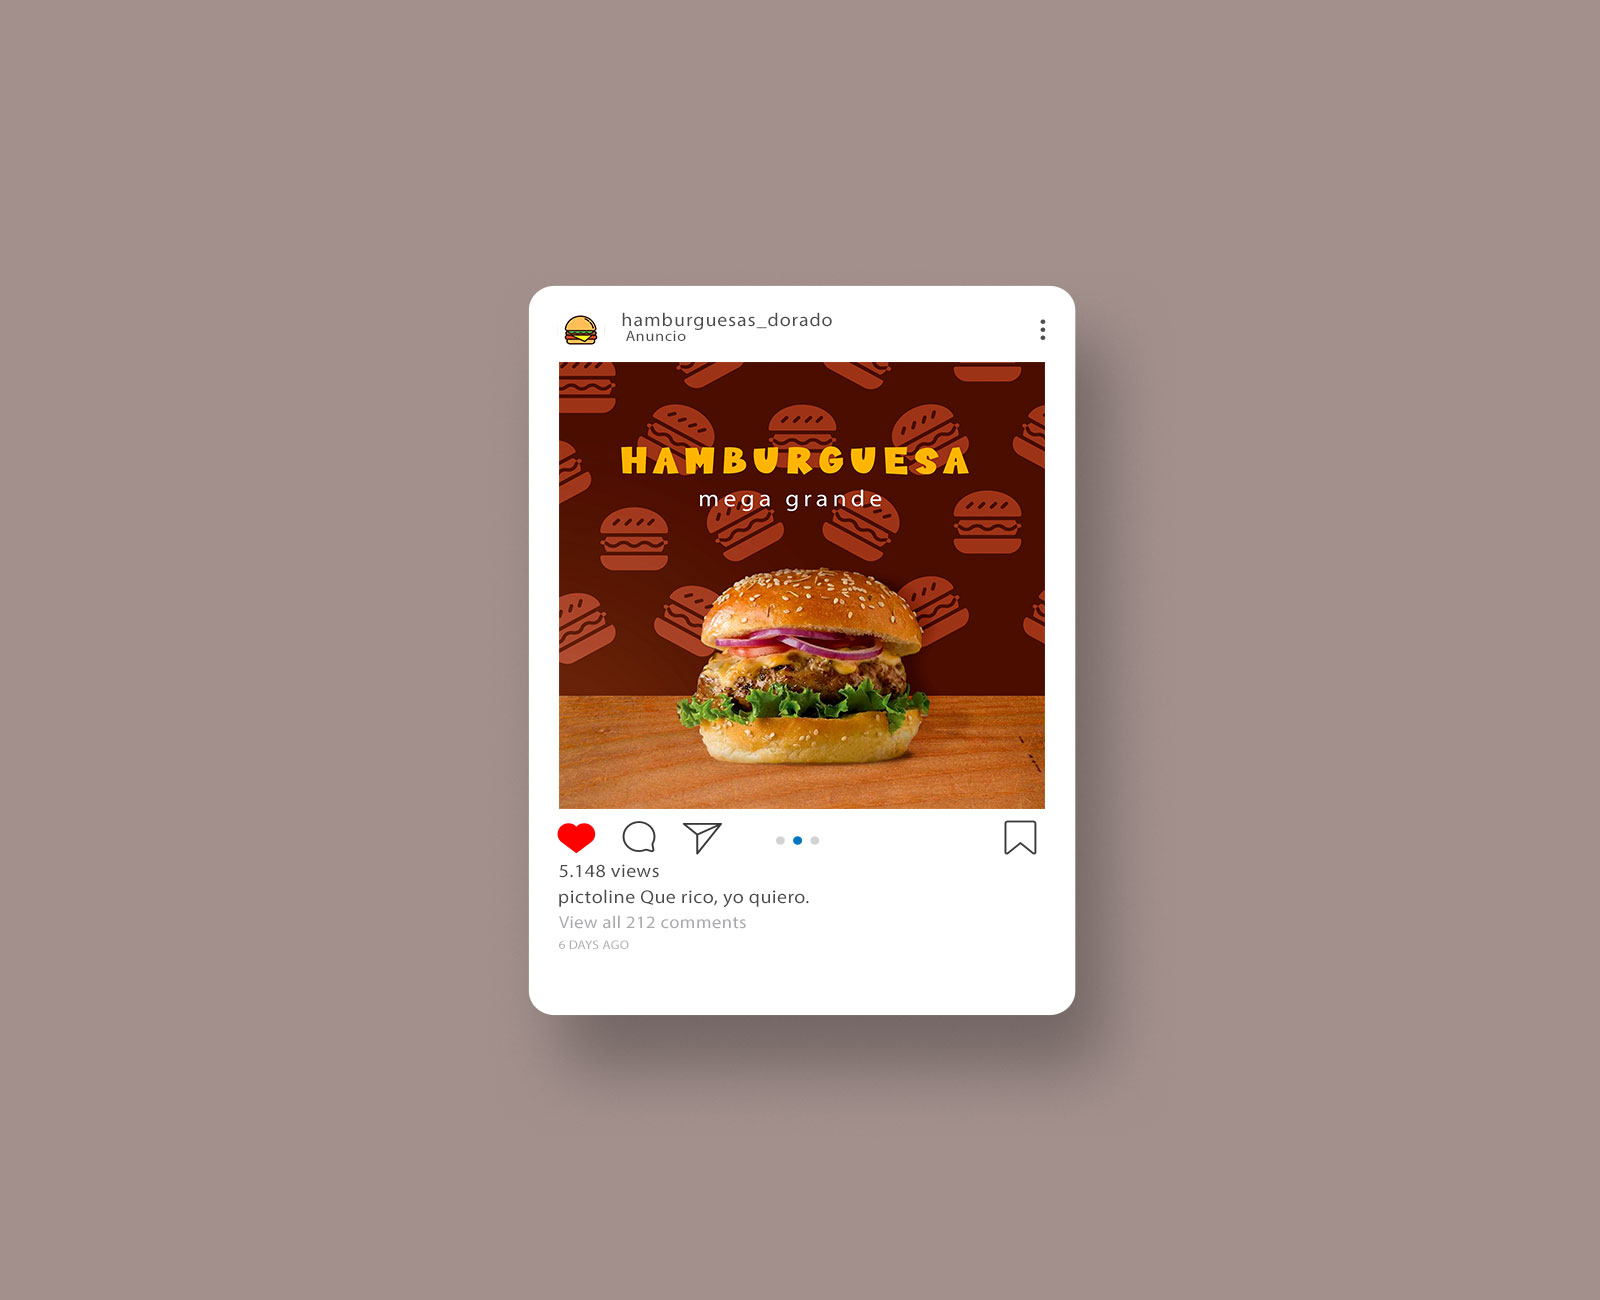
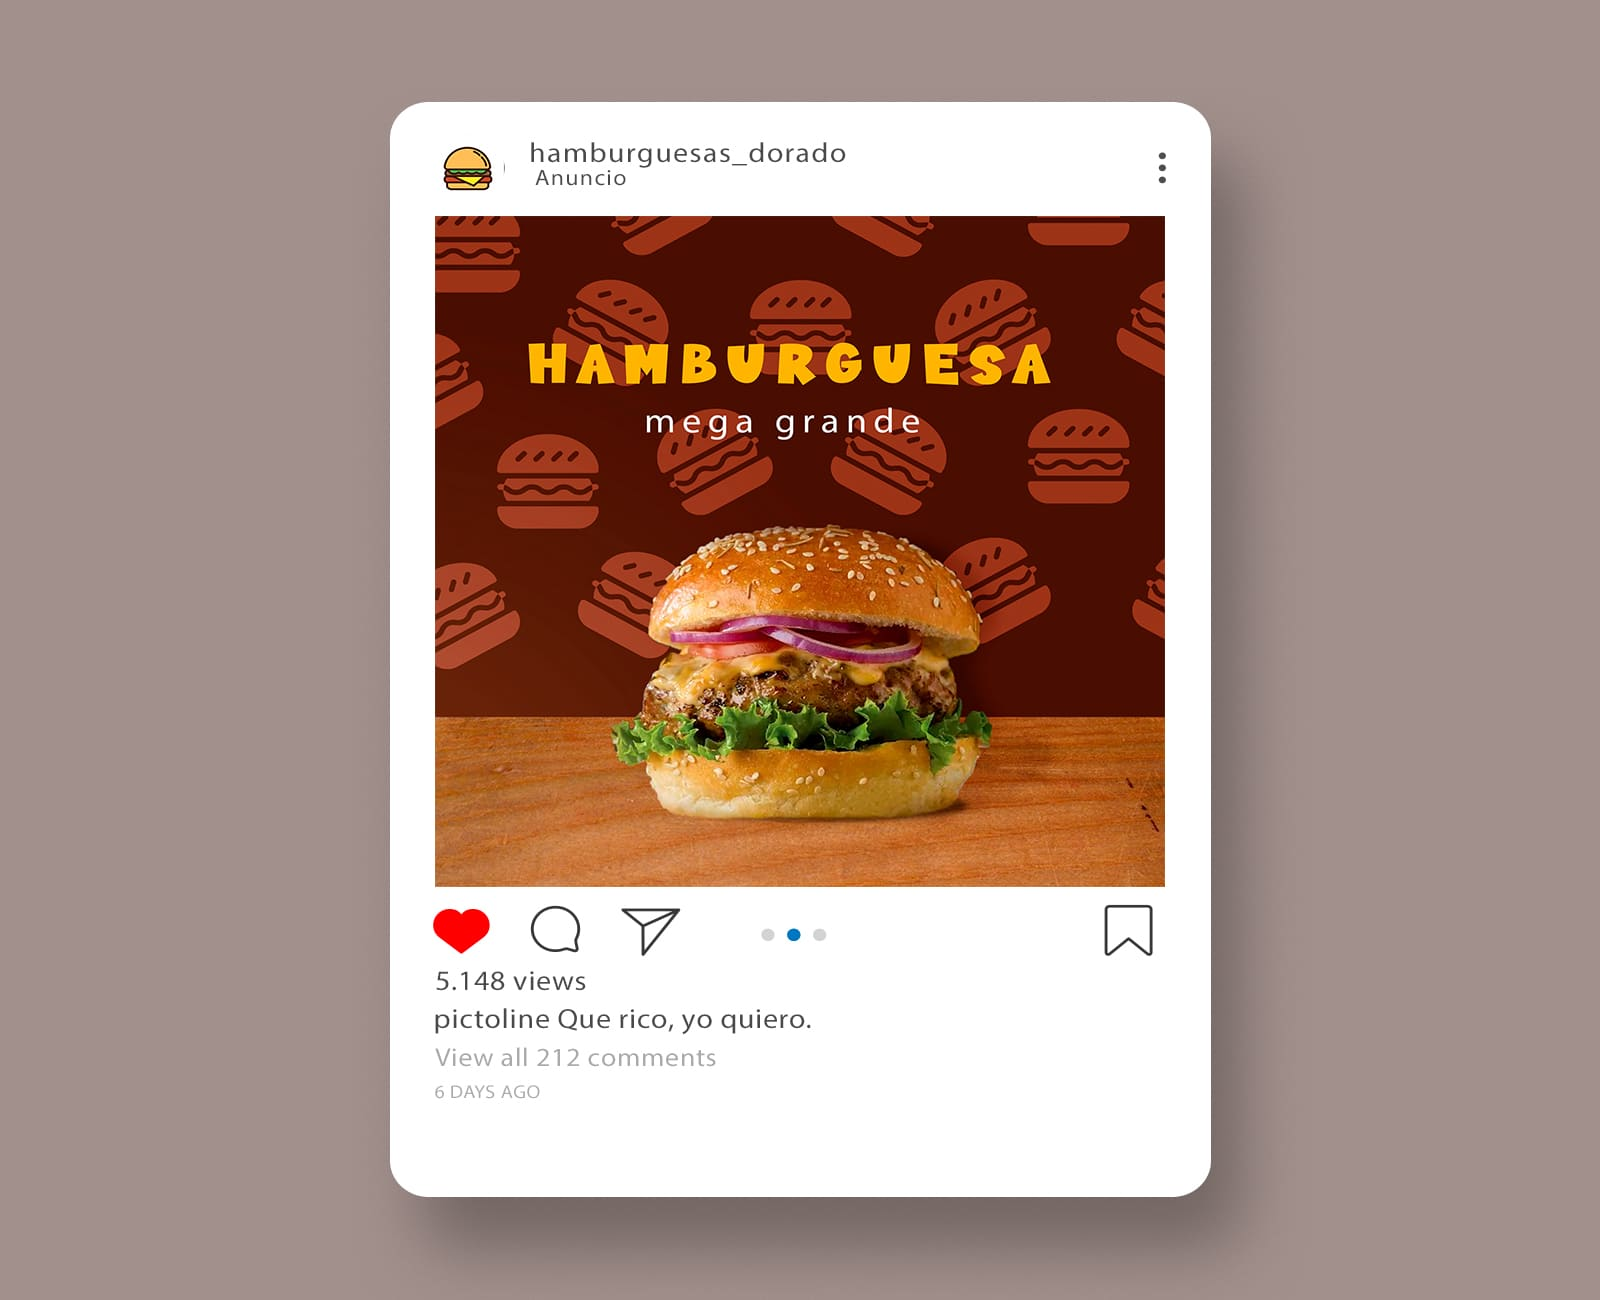
Cambio de algunas imagenes en DC

diff --git a/src/pages/diseno-creativo/services/ServicesDC.jsx b/src/pages/diseno-creativo/services/ServicesDC.jsx
@@ -13,7 +13,7 @@ const data = [
   {
       degra_Id:"2",
       degra_Nombre:"Combo de hamburguesa",
-      degra_Imagen: "https://i.ibb.co/J2j0qgf/Publicida-2.jpg",
+      degra_Imagen: "https://i.ibb.co/F7jVWz9/Publicida-2-mockup.jpg",
       degra_Categoria: "Publicitario"
   },
   {
@@ -25,7 +25,7 @@ const data = [
   {
       degra_Id:"3",
       degra_Nombre:"Atardecer en faro",
-      degra_Imagen: "https://i.ibb.co/HqcKFBQ/Ilustracion-4.jpg",
+      degra_Imagen: "https://i.ibb.co/GT6V9B5/Ilustracion-4-mockup.jpg",
       degra_Categoria: "Ilustrativo"
   },
   {
@@ -37,7 +37,7 @@ const data = [
   {
       degra_Id:"5",
       degra_Nombre:"Hamburguesa sobre mesa",
-      degra_Imagen: "https://i.ibb.co/xSQBFzs/Publicida-1.jpg",
+      degra_Imagen: "https://i.ibb.co/fXMj2Vq/Publicida-1-mockup.jpg",
       degra_Categoria: "Publicitario"
   },
   {
@@ -49,7 +49,7 @@ const data = [
   {
       degra_Id:"8",
       degra_Nombre:"Castaño",
-      degra_Imagen: "https://i.ibb.co/BCXy5pY/Ilustracion-3.jpg",
+      degra_Imagen: "https://i.ibb.co/C2S47yY/Ilustracion-3-mockup.jpg",
       degra_Categoria: "Ilustrativo"
   },
   {
